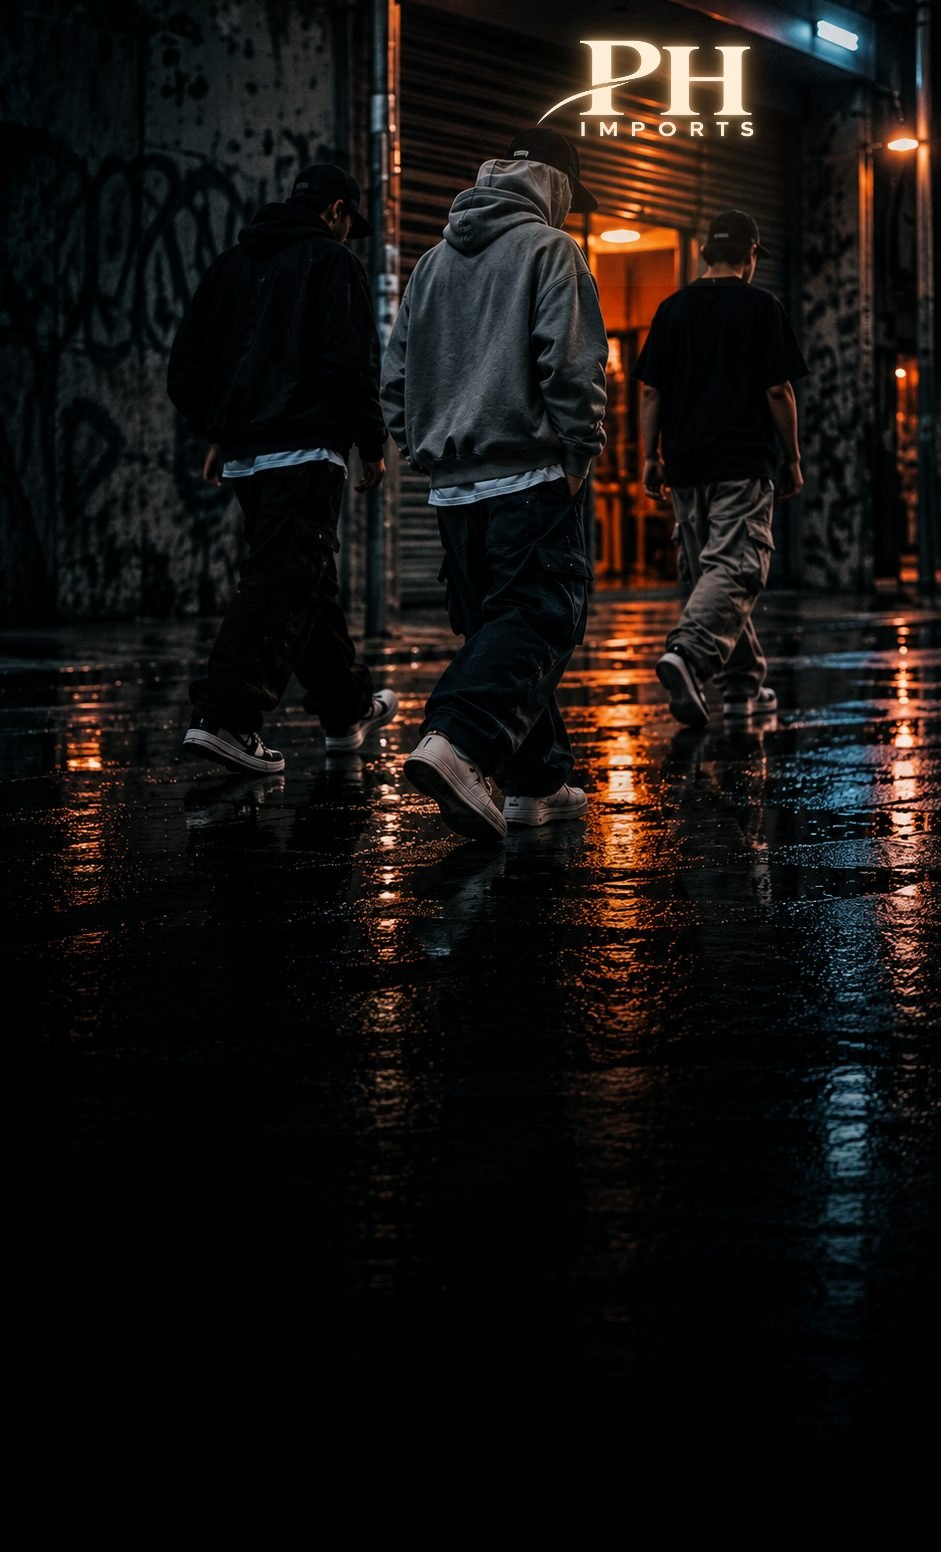
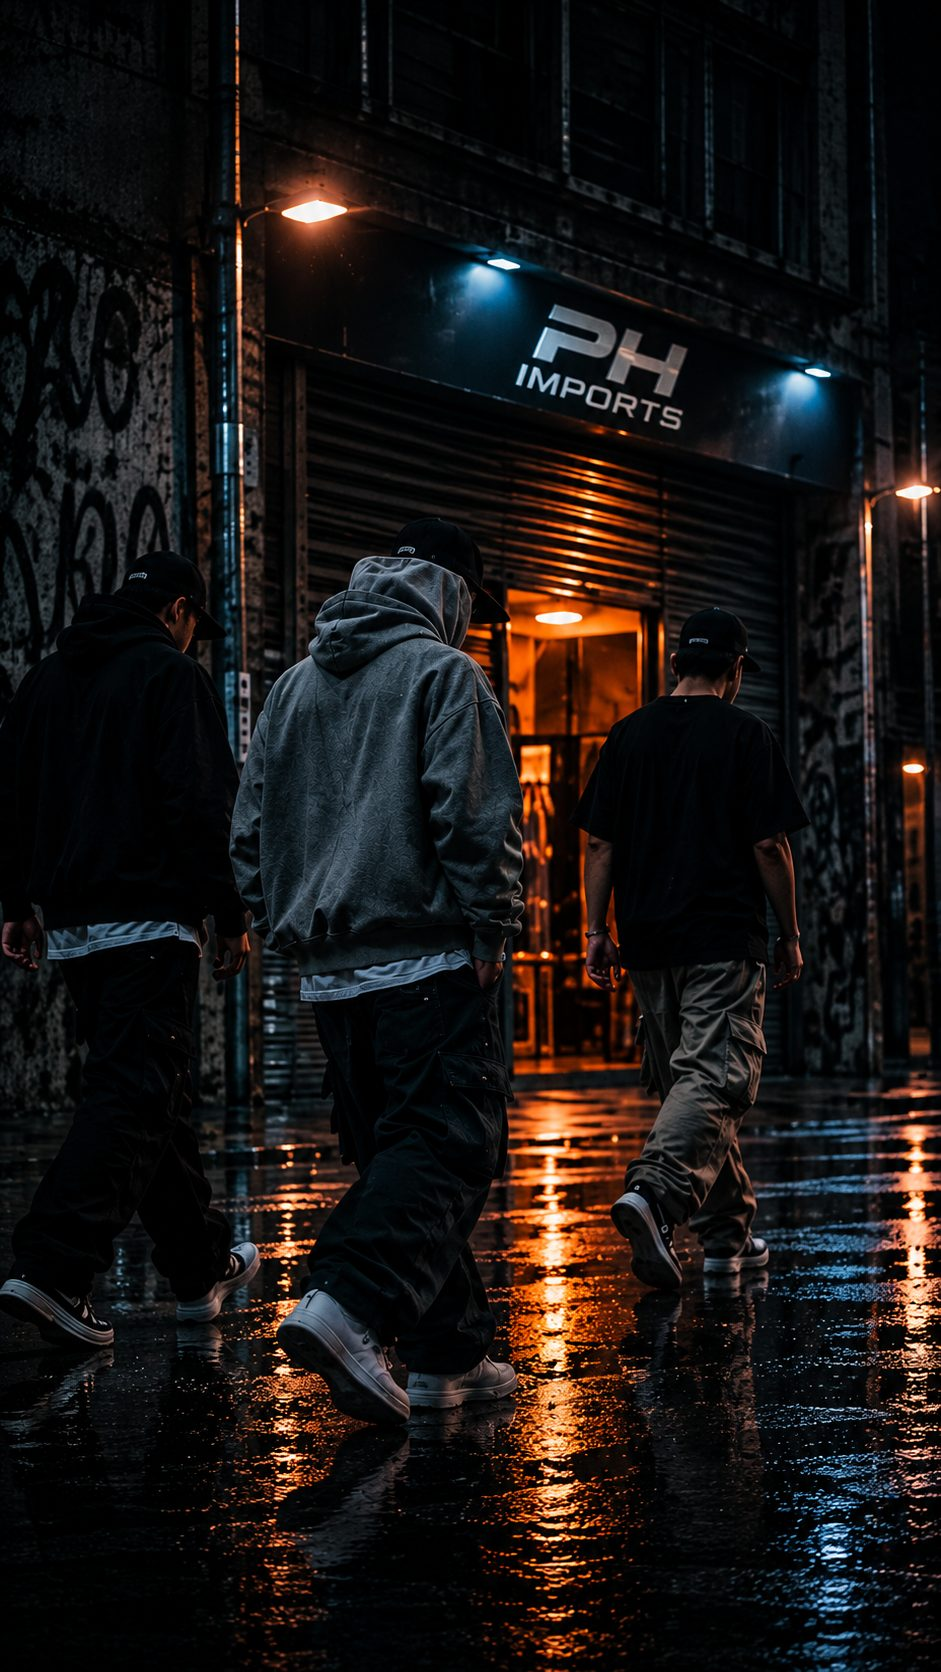
Catálogo: novas capas (computador e celular) com o letreiro PH Imports na fachada; título um pouco menor no computador

diff --git a/css/catalogo.css b/css/catalogo.css
@@ -473,7 +473,7 @@ body.fonte-urbana .hero.cinema h1 em { font-style: normal; color: transparent; -
     linear-gradient(180deg, rgba(7, 7, 7, .25) 0%, rgba(7, 7, 7, 0) 25%, rgba(7, 7, 7, .55) 55%, rgba(7, 7, 7, .92) 80%, #070707 100%); }
 }
 @media (prefers-reduced-motion: reduce) { .cine-capa img { animation: none; } }
-@media (min-width: 701px) { .hero.com-capa h1 { font-size: clamp(48px, 6.4vw, 108px); max-width: 62%; } }
+@media (min-width: 701px) { .hero.com-capa h1 { font-size: clamp(46px, 5.9vw, 100px); max-width: 58%; } }
 
 /* ---------- Topo escuro sobre a abertura ---------- */
 .topo { transition: background .35s ease, border-color .35s ease; }
